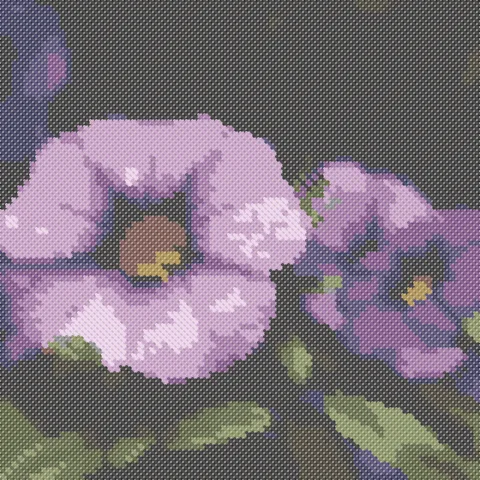
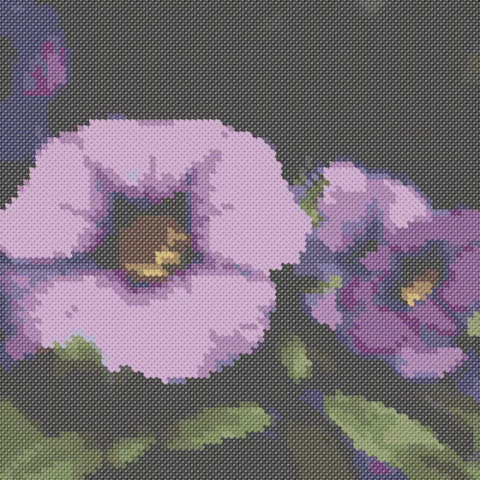
Fix speckled results with dithering; DMC 309; sample credits
- Dithering: each stitch chooses between the two threads nearest its
  true colour, 70% error diffusion; never dithers the simplified or
  cleared-white background
- Fix: colour count could exceed the maximum with dithering (threads
  emptied by splitting came back); unused threads dropped and the
  thread list renumbered in place
- White background: also clear fully isolated stitches left in it
- Optimise for a face turns dithering off and cleanup on; dithering
  has a one-line explanation
- Test covering every option combination, incl. a noise image that
  forces the colour top-up (fails on the renumbering bug)
- DMC 309 Rose Dark corrected from grey (#564A4A) to #BA2044, with
  provenance recorded in dmc.json
- Home samples regenerated (20 colours each); photo credits in README

diff --git a/src/lib/color/dither.ts b/src/lib/color/dither.ts
@@ -1,24 +1,64 @@
-import { nearestIndex } from "./ciede2000";
+import { deltaE2000 } from "./ciede2000";
+
+// Share of the colour error passed on to neighbours. Full Floyd–Steinberg (1)
+// gives busy, speckled stitching; less keeps areas calmer.
+const DITHER_STRENGTH = 0.7;
+
+export type DitherOptions = {
+  /** Limit the threads a stitch may use (e.g. warm threads for skin) */
+  allowedFor?: (L: number, a: number, b: number, cell: number) => Uint8Array | undefined;
+  /** Cells that keep `fixed[i]` and take no part in the dithering (background areas) */
+  skip?: Uint8Array;
+  fixed?: Int16Array;
+};
+
+/** The two allowed palette colours nearest to a Lab colour. */
+function nearestTwo(L: number, a: number, b: number, palette: Float64Array, allowed?: Uint8Array): [number, number] {
+  let i1 = -1;
+  let i2 = -1;
+  let d1 = Infinity;
+  let d2 = Infinity;
+  for (let i = 0, n = palette.length / 3; i < n; i++) {
+    if (allowed && !allowed[i]) continue;
+    const d = deltaE2000(L, a, b, palette[i * 3], palette[i * 3 + 1], palette[i * 3 + 2]);
+    if (d < d1) {
+      i2 = i1;
+      d2 = d1;
+      i1 = i;
+      d1 = d;
+    } else if (d < d2) {
+      i2 = i;
+      d2 = d;
+    }
+  }
+  if (i1 < 0) return allowed ? nearestTwo(L, a, b, palette) : [0, 0];
+  return [i1, i2 < 0 ? i1 : i2];
+}
 
 /**
- * Serpentine Floyd–Steinberg dithering in Lab against a fixed palette.
- * `lab` is the stitch grid as flat L,a,b triples; returns a palette index per cell.
+ * Serpentine Floyd–Steinberg dithering in Lab against a fixed palette, tuned
+ * for stitching: each stitch only chooses between the two threads nearest its
+ * true colour (so a face mixes two skin shades, never a stray blue), and only
+ * part of the error is passed on. `lab` is the stitch grid as L,a,b triples.
  */
 export function ditherLab(
   lab: Float32Array,
   width: number,
   height: number,
   palette: Float64Array,
-  allowedFor?: (L: number, a: number, b: number, cell: number) => Uint8Array | undefined,
+  opts: DitherOptions = {},
 ): Int16Array {
+  const { allowedFor, skip, fixed } = opts;
   const buf = Float32Array.from(lab);
   const out = new Int16Array(width * height);
   const spread = (x: number, y: number, eL: number, ea: number, eb: number, w: number) => {
     if (x < 0 || x >= width || y >= height) return;
-    const j = (y * width + x) * 3;
-    buf[j] += eL * w;
-    buf[j + 1] += ea * w;
-    buf[j + 2] += eb * w;
+    const j = y * width + x;
+    if (skip?.[j]) return;
+    const k = w * DITHER_STRENGTH;
+    buf[j * 3] += eL * k;
+    buf[j * 3 + 1] += ea * k;
+    buf[j * 3 + 2] += eb * k;
   };
   for (let y = 0; y < height; y++) {
     const ltr = y % 2 === 0;
@@ -26,10 +66,17 @@ export function ditherLab(
     for (let s = 0; s < width; s++) {
       const x = ltr ? s : width - 1 - s;
       const i = y * width + x;
+      if (skip?.[i]) {
+        out[i] = fixed ? fixed[i] : 0;
+        continue;
+      }
+      const [c1, c2] = nearestTwo(lab[i * 3], lab[i * 3 + 1], lab[i * 3 + 2], palette, allowedFor?.(lab[i * 3], lab[i * 3 + 1], lab[i * 3 + 2], i));
       const L = buf[i * 3];
       const a = buf[i * 3 + 1];
       const b = buf[i * 3 + 2];
-      const p = nearestIndex(L, a, b, palette, allowedFor?.(L, a, b, i));
+      const d1 = deltaE2000(L, a, b, palette[c1 * 3], palette[c1 * 3 + 1], palette[c1 * 3 + 2]);
+      const d2 = deltaE2000(L, a, b, palette[c2 * 3], palette[c2 * 3 + 1], palette[c2 * 3 + 2]);
+      const p = d2 < d1 ? c2 : c1;
       out[i] = p;
       const eL = L - palette[p * 3];
       const ea = a - palette[p * 3 + 1];

diff --git a/src/lib/pattern/pipeline.ts b/src/lib/pattern/pipeline.ts
@@ -239,15 +239,40 @@ export function buildPattern(rgba: Uint8ClampedArray, srcW: number, srcH: number
   };
   splitUntilCount();
 
+  // Drop threads that ended up with no stitches, so nothing below (dithering in
+  // particular) can bring them back and go over the colour count.
+  const usedThreads = [...new Set(cells)].sort((x, y) => x - y);
+  const remap = new Int16Array(threads.length).fill(EMPTY);
+  usedThreads.forEach((t, j) => (remap[t] = j));
+  for (let i = 0; i < n; i++) cells[i] = remap[cells[i]];
+  // Renumber in place: the cleanup top-up below keeps using `threads` and `unsplittable`.
+  const kept = usedThreads.map((t) => threads[t]);
+  threads.length = 0;
+  threads.push(...kept);
+  const stillUnsplittable = [...unsplittable].filter((t) => remap[t] !== EMPTY).map((t) => remap[t]);
+  unsplittable.clear();
+  stillUnsplittable.forEach((t) => unsplittable.add(t));
   const dmcIdx = threads;
+
+  const isLightThread = (p: number) => {
+    const [L, a, b] = DMC[dmcIdx[p]].lab;
+    return L >= LIGHT_L && Math.hypot(a, b) <= LIGHT_CHROMA;
+  };
+  // Edge stitches that are mostly background blended with the subject
+  const isFringe = (i: number) => lab[i * 3] >= FRINGE_L && Math.hypot(lab[i * 3 + 1], lab[i * 3 + 2]) <= FRINGE_CHROMA;
+
   let out: Int16Array = cells;
   if (s.dither) {
+    // Background areas (a cleared white background, or the simplified outer
+    // area) aren't dithered: they stay calm and keep their plain threads.
+    const fixed = s.skipWhiteBackground ? clearLightBackground(cells, width, height, isLightThread, isFringe) : cells;
+    const skip = Uint8Array.from(fixed, (v, i) => (v === EMPTY || (inner && !inner[i]) ? 1 : 0));
     const paletteLab = Float64Array.from(dmcIdx.flatMap((d) => DMC[d].lab));
     const paletteSkinSafe = Uint8Array.from(dmcIdx, (d) => SKIN_SAFE_DMC[d]);
-    const paletteBg = Uint8Array.from(dmcIdx, (d) => (bgThreads?.has(d) ? 1 : 0));
-    out = ditherLab(lab, width, height, paletteLab, (L, a, b, i) => {
-      if (inner && !inner[i]) return paletteBg;
-      return isSkinLike(L, a, b, portrait) ? paletteSkinSafe : undefined;
+    out = ditherLab(lab, width, height, paletteLab, {
+      skip,
+      fixed,
+      allowedFor: (L, a, b) => (isSkinLike(L, a, b, portrait) ? paletteSkinSafe : undefined),
     });
   }
 
@@ -263,17 +288,7 @@ export function buildPattern(rgba: Uint8ClampedArray, srcW: number, srcH: number
   }
 
   if (s.skipWhiteBackground) {
-    out = clearLightBackground(
-      out,
-      width,
-      height,
-      (p) => {
-        const [L, a, b] = DMC[dmcIdx[p]].lab;
-        return L >= LIGHT_L && Math.hypot(a, b) <= LIGHT_CHROMA;
-      },
-      // Edge stitches that are mostly background blended with the subject
-      (i) => lab[i * 3] >= FRINGE_L && Math.hypot(lab[i * 3 + 1], lab[i * 3 + 2]) <= FRINGE_CHROMA,
-    );
+    out = clearLightBackground(out, width, height, isLightThread, isFringe);
   }
 
   return { ...compactPalette(out, dmcIdx, width, height), faceLikely: centreSkinShare(raw, width, height) >= FACE_SKIN_SHARE };

diff --git a/src/lib/pattern/__tests__/pipeline.test.ts b/src/lib/pattern/__tests__/pipeline.test.ts
@@ -2,6 +2,7 @@ import { describe, expect, it } from "vitest";
 import { isSkinSafeThread } from "@/lib/color/skin";
 import { hexToLab } from "@/lib/color/lab";
 import { buildPattern, DEFAULT_SETTINGS } from "../pipeline";
+import { mulberry32 } from "@/lib/color/random";
 
 function gradient(w: number, h: number): Uint8ClampedArray {
   const px = new Uint8ClampedArray(w * h * 4);
@@ -78,3 +79,41 @@ describe("simplify background", () => {
     expect(corners.size).toBeLessThanOrEqual(3);
   });
 });
+
+/** Speckled noise: cleanup removes whole threads, so the colour top-up has to run. */
+function noise(w: number, h: number): Uint8ClampedArray {
+  const r = mulberry32(5);
+  const px = new Uint8ClampedArray(w * h * 4);
+  for (let i = 0; i < px.length; i += 4) px.set([r() * 255, r() * 255, r() * 255, 255], i);
+  return px;
+}
+
+describe("every combination of options", () => {
+  const img = shadedSkin(240, 300);
+  const speckle = noise(240, 300);
+  const combos: Partial<typeof DEFAULT_SETTINGS>[] = [];
+  for (const portrait of [false, true])
+    for (const simplifyBackground of [false, true])
+      for (const dither of [false, true])
+        for (const cleanup of [false, true]) combos.push({ portrait, simplifyBackground, dither, cleanup });
+
+  it.each(combos)("%o accounts for every stitch and stays within the colour count", (opts) => {
+    const s = { ...DEFAULT_SETTINGS, ...opts, width: 60, maxColours: 12 };
+    for (const src of [gradientMix(img), speckle]) {
+      const p = buildPattern(src, 240, 300, s);
+      expect(p.palette.length).toBeLessThanOrEqual(12);
+      expect(p.palette.reduce((sum, c) => sum + c.count, 0)).toBe(p.width * p.height);
+      expect(Array.from(p.cells).every((c) => c >= 0 && c < p.palette.length)).toBe(true);
+    }
+  });
+});
+
+/** Mix a gradient into the test card so there are plenty of colours to choose from. */
+function gradientMix(img: Uint8ClampedArray): Uint8ClampedArray {
+  const out = Uint8ClampedArray.from(img);
+  for (let i = 0; i < out.length; i += 4) {
+    const p = i / 4;
+    out[i + 2] = (out[i + 2] + (p % 240)) / 2;
+  }
+  return out;
+}

diff --git a/src/lib/color/__tests__/cleanup.test.ts b/src/lib/color/__tests__/cleanup.test.ts
@@ -9,12 +9,6 @@ describe("removeStrayStitches", () => {
 });
 
 describe("clearLightBackground", () => {
-  // 5x3: white (0) border, a fringe stitch (2) next to the subject (1), and a white highlight (0) inside.
-  const cells = Int16Array.from([
-    0, 0, 0, 0, 0,
-    0, 2, 1, 0, 1,
-    0, 0, 0, 0, 0,
-  ]);
   const isLight = (p: number) => p === 0;
 
   it("clears white connected to the edge only", () => {
@@ -25,8 +19,25 @@ describe("clearLightBackground", () => {
   });
 
   it("also clears pale fringe stitches touching the background, one deep", () => {
-    const out = clearLightBackground(cells, 5, 3, isLight, (i) => cells[i] === 2);
-    expect(out[6]).toBe(EMPTY); // fringe
-    expect(out[7]).toBe(1); // subject untouched
+    // 6x4: white border, a 2x2 subject (1) with a pale fringe stitch (2) on its left
+    const g = Int16Array.from([
+      0, 0, 0, 0, 0, 0,
+      0, 2, 1, 1, 0, 0,
+      0, 0, 1, 1, 0, 0,
+      0, 0, 0, 0, 0, 0,
+    ]);
+    const out = clearLightBackground(g, 6, 4, isLight, (i) => g[i] === 2);
+    expect(out[7]).toBe(EMPTY); // fringe
+    expect([out[8], out[9], out[14], out[15]]).toEqual([1, 1, 1, 1]); // subject untouched
+  });
+
+  it("removes a single stranded stitch but keeps a one-stitch-wide line", () => {
+    // 7x5: a lone stitch at (1,2) and a vertical line at x=4
+    const g = new Int16Array(35);
+    g[2 * 7 + 1] = 1;
+    for (let y = 1; y < 4; y++) g[y * 7 + 4] = 1;
+    const out = clearLightBackground(g, 7, 5, isLight);
+    expect(out[2 * 7 + 1]).toBe(EMPTY);
+    expect([out[7 + 4], out[14 + 4], out[21 + 4]]).toEqual([1, 1, 1]);
   });
 });

diff --git a/src/lib/color/cleanup.ts b/src/lib/color/cleanup.ts
@@ -95,5 +95,25 @@ export function clearLightBackground(
     }
     for (const i of fringe) out[i] = EMPTY;
   }
+  // Single stitches stranded in the cleared background (all 8 neighbours bare).
+  // Thin lines (6 bare neighbours) are real detail and stay.
+  const stranded: number[] = [];
+  for (let i = 0; i < out.length; i++) {
+    if (out[i] === EMPTY) continue;
+    const x = i % width;
+    const y = (i - x) / width;
+    let bare = 0;
+    for (let dy = -1; dy <= 1; dy++) {
+      for (let dx = -1; dx <= 1; dx++) {
+        if (!dx && !dy) continue;
+        const nx = x + dx;
+        const ny = y + dy;
+        if (nx < 0 || ny < 0 || nx >= width || ny >= height || out[ny * width + nx] === EMPTY) bare++;
+      }
+    }
+    if (bare === 8) stranded.push(i);
+  }
+  for (const i of stranded) out[i] = EMPTY;
   return out;
 }
+

diff --git a/src/components/tool/Settings.tsx b/src/components/tool/Settings.tsx
@@ -301,6 +301,9 @@ export function Settings({ value, onChange, fabric, onFabricChange, aspect }: Pr
           // Cleanup removes the scattered stitches dithering relies on, so switch it off (it can be turned back on).
           onChange={(v) => onChange(v ? { ...value, dither: true, cleanup: false } : { ...value, dither: false })}
         />
+        <p className="-mt-1 pl-6 text-xs text-muted">
+          Mixes two close threads to fake in-between shades. Good for skies and soft gradients; can make faces speckled.
+        </p>
         <Toggle
           id="set-bg"
           label="Leave white background unstitched"

diff --git a/src/app/page.tsx b/src/app/page.tsx
@@ -38,14 +38,14 @@ const samples = [
     label: "A summer portrait",
     alt: "A woman in sunglasses holding daisies in a field",
     patternAlt: "The portrait as a stitched cross stitch pattern",
-    stitches: "80 × 80 stitches, 19 colours",
+    stitches: "80 × 80 stitches, 20 colours",
   },
   {
     slug: "flower",
     label: "A purple petunia",
     alt: "A purple petunia flower against dark leaves",
     patternAlt: "The petunia as a stitched cross stitch pattern",
-    stitches: "80 × 80 stitches, 14 colours",
+    stitches: "80 × 80 stitches, 20 colours",
   },
 ];
 

diff --git a/src/components/tool/PatternTool.tsx b/src/components/tool/PatternTool.tsx
@@ -238,6 +238,9 @@ export default function PatternTool() {
                     ...settings,
                     portrait: true,
                     simplifyBackground: true,
+                    // Faces stitch best as calm areas of colour
+                    dither: false,
+                    cleanup: true,
                     width: Math.max(settings.width, OPTIMISED_WIDTH),
                     maxColours: OPTIMISED_COLOURS,
                   });

diff --git a/src/lib/pattern/__tests__/maths.test.ts b/src/lib/pattern/__tests__/maths.test.ts
@@ -36,3 +36,11 @@ describe("fabric sizes", () => {
     expect(fabricToBuyCm(140, 14)).toBeCloseTo(25.4 + 15, 6);
   });
 });
+
+describe("DMC data", () => {
+  it("has 309 Rose Dark as a rose, not the grey from the upstream list", async () => {
+    const { DMC } = await import("../dmc");
+    const rose = DMC.find((f) => f.code === "309");
+    expect(rose?.lab[1]).toBeGreaterThan(30); // clearly red (positive a*)
+  });
+});

diff --git a/README.md b/README.md
@@ -61,6 +61,21 @@ Preview the production build: `npx serve out`.
 - Swap `/public/samples/*.jpg` for your own photos, then regenerate the before/after WebPs
   (run the pipeline in `/dev/compare` and export the realistic previews at 480 px).
 
+## Sample photos
+
+The before/after examples and `/dev/compare` use three local photos in `public/samples/` (no images are
+loaded from other sites). They are from Unsplash, under the [Unsplash Licence](https://unsplash.com/license),
+which allows commercial use without attribution:
+
+| File | Photographer | Source |
+|---|---|---|
+| `pet.jpg` | Matthew Wiebe | https://unsplash.com/photos/U5rMrSI7Pn4 |
+| `portrait.jpg` | Alexander Shustov | https://unsplash.com/photos/AHBiSKaENwc |
+| `flower.jpg` | Steven Spassov | https://unsplash.com/photos/tVIqMgGlAG0 |
+
+The `*-photo.webp` and `*-pattern.webp` files are generated from them by the pattern pipeline at default
+settings. Replace them with your own photos before launch if you prefer.
+
 ## Where things live
 
 - `src/lib/color`: Lab conversion, CIEDE2000, seeded k-means++, dithering, stray-stitch cleanup
